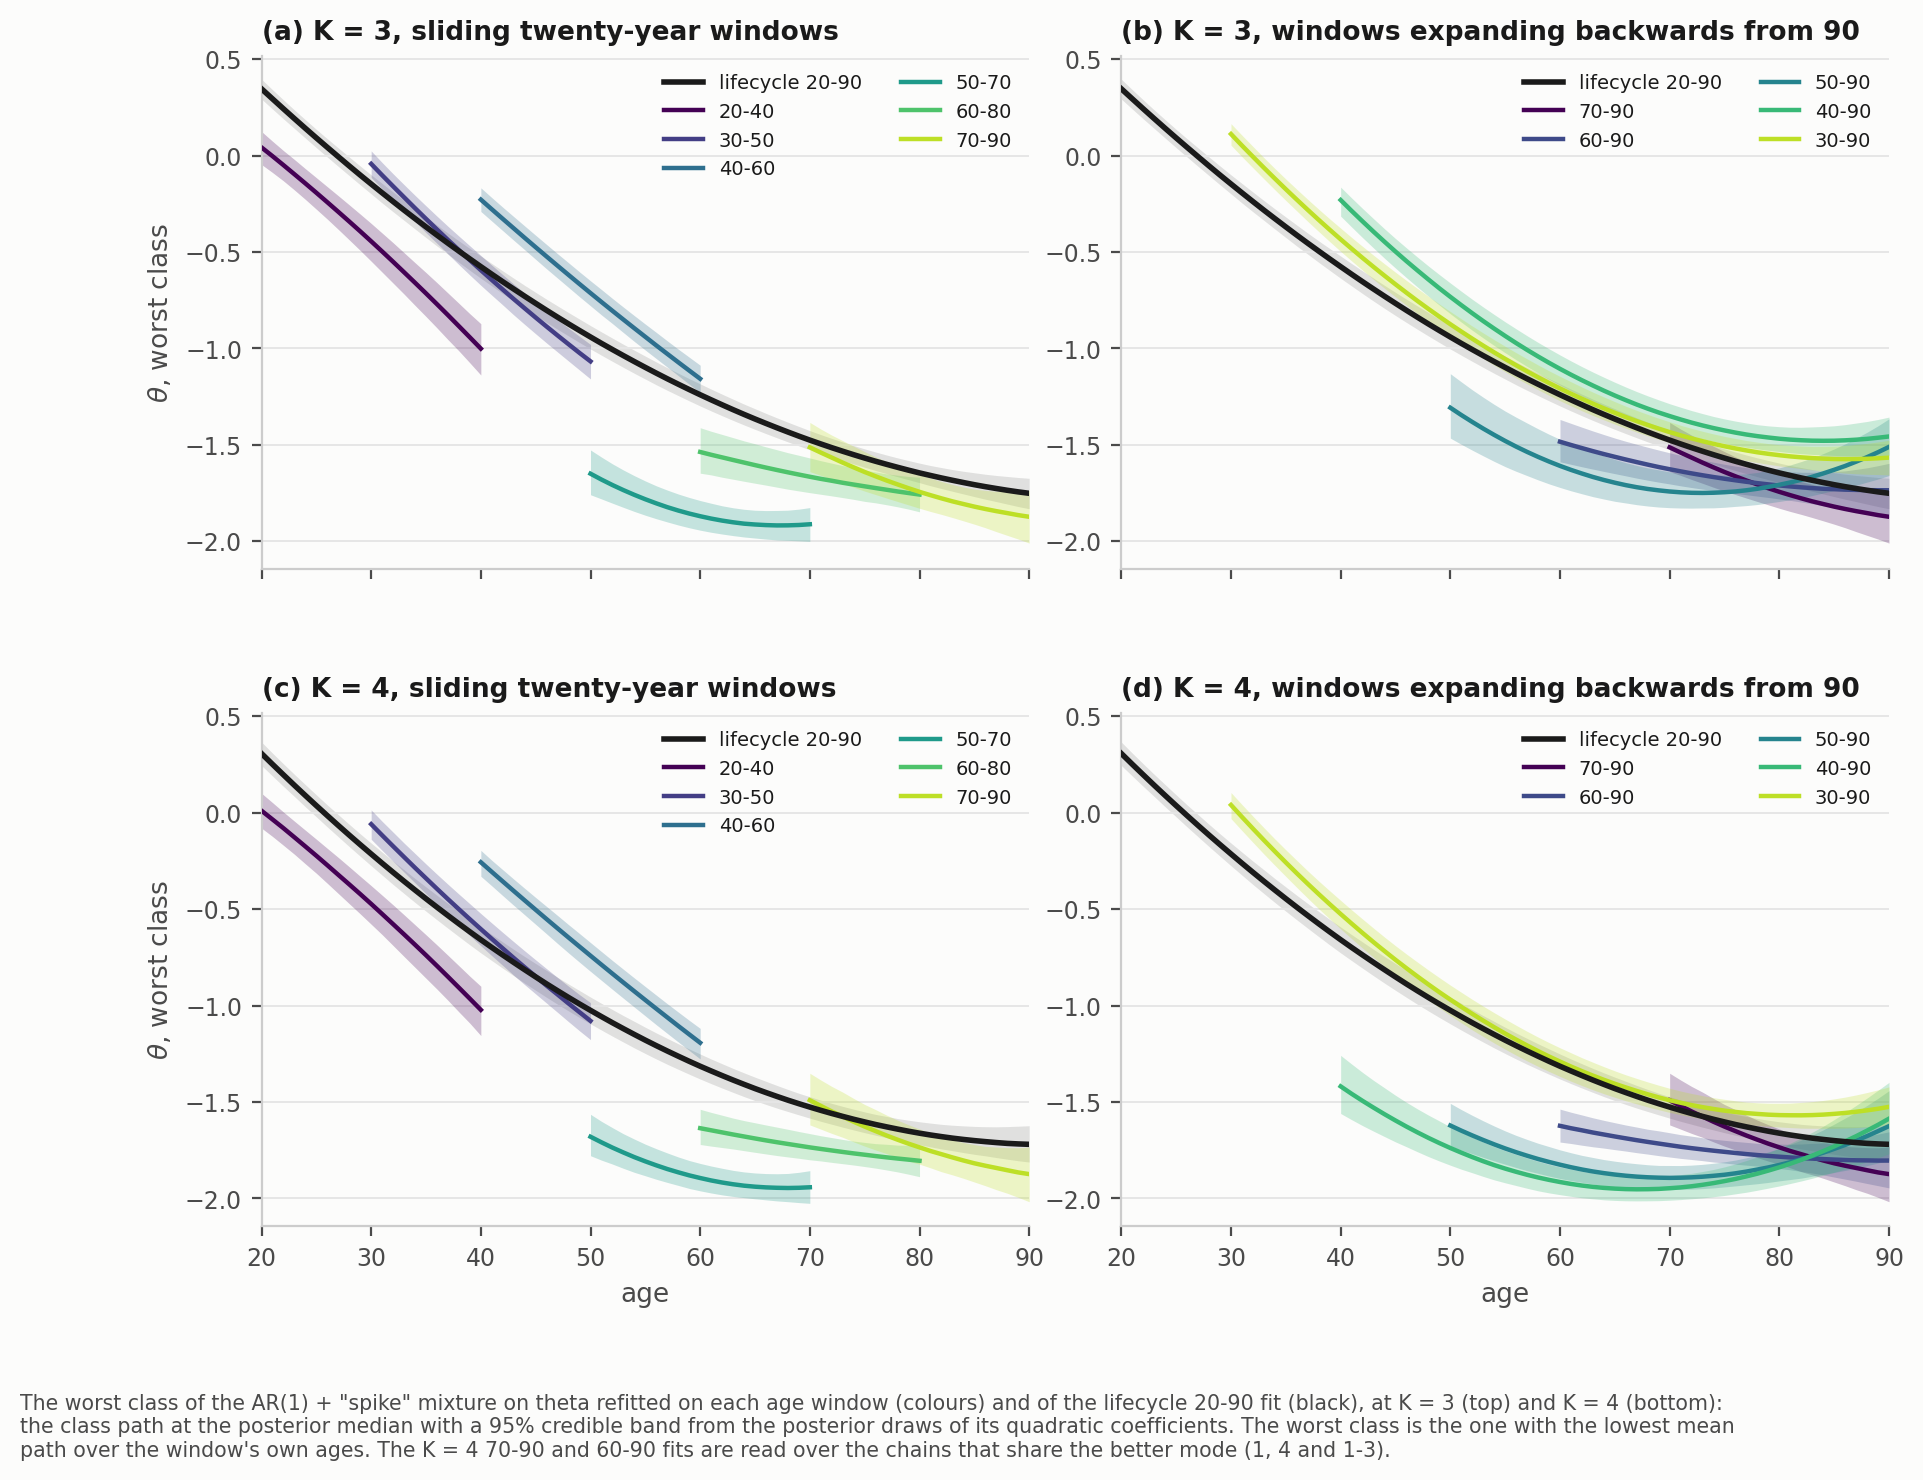
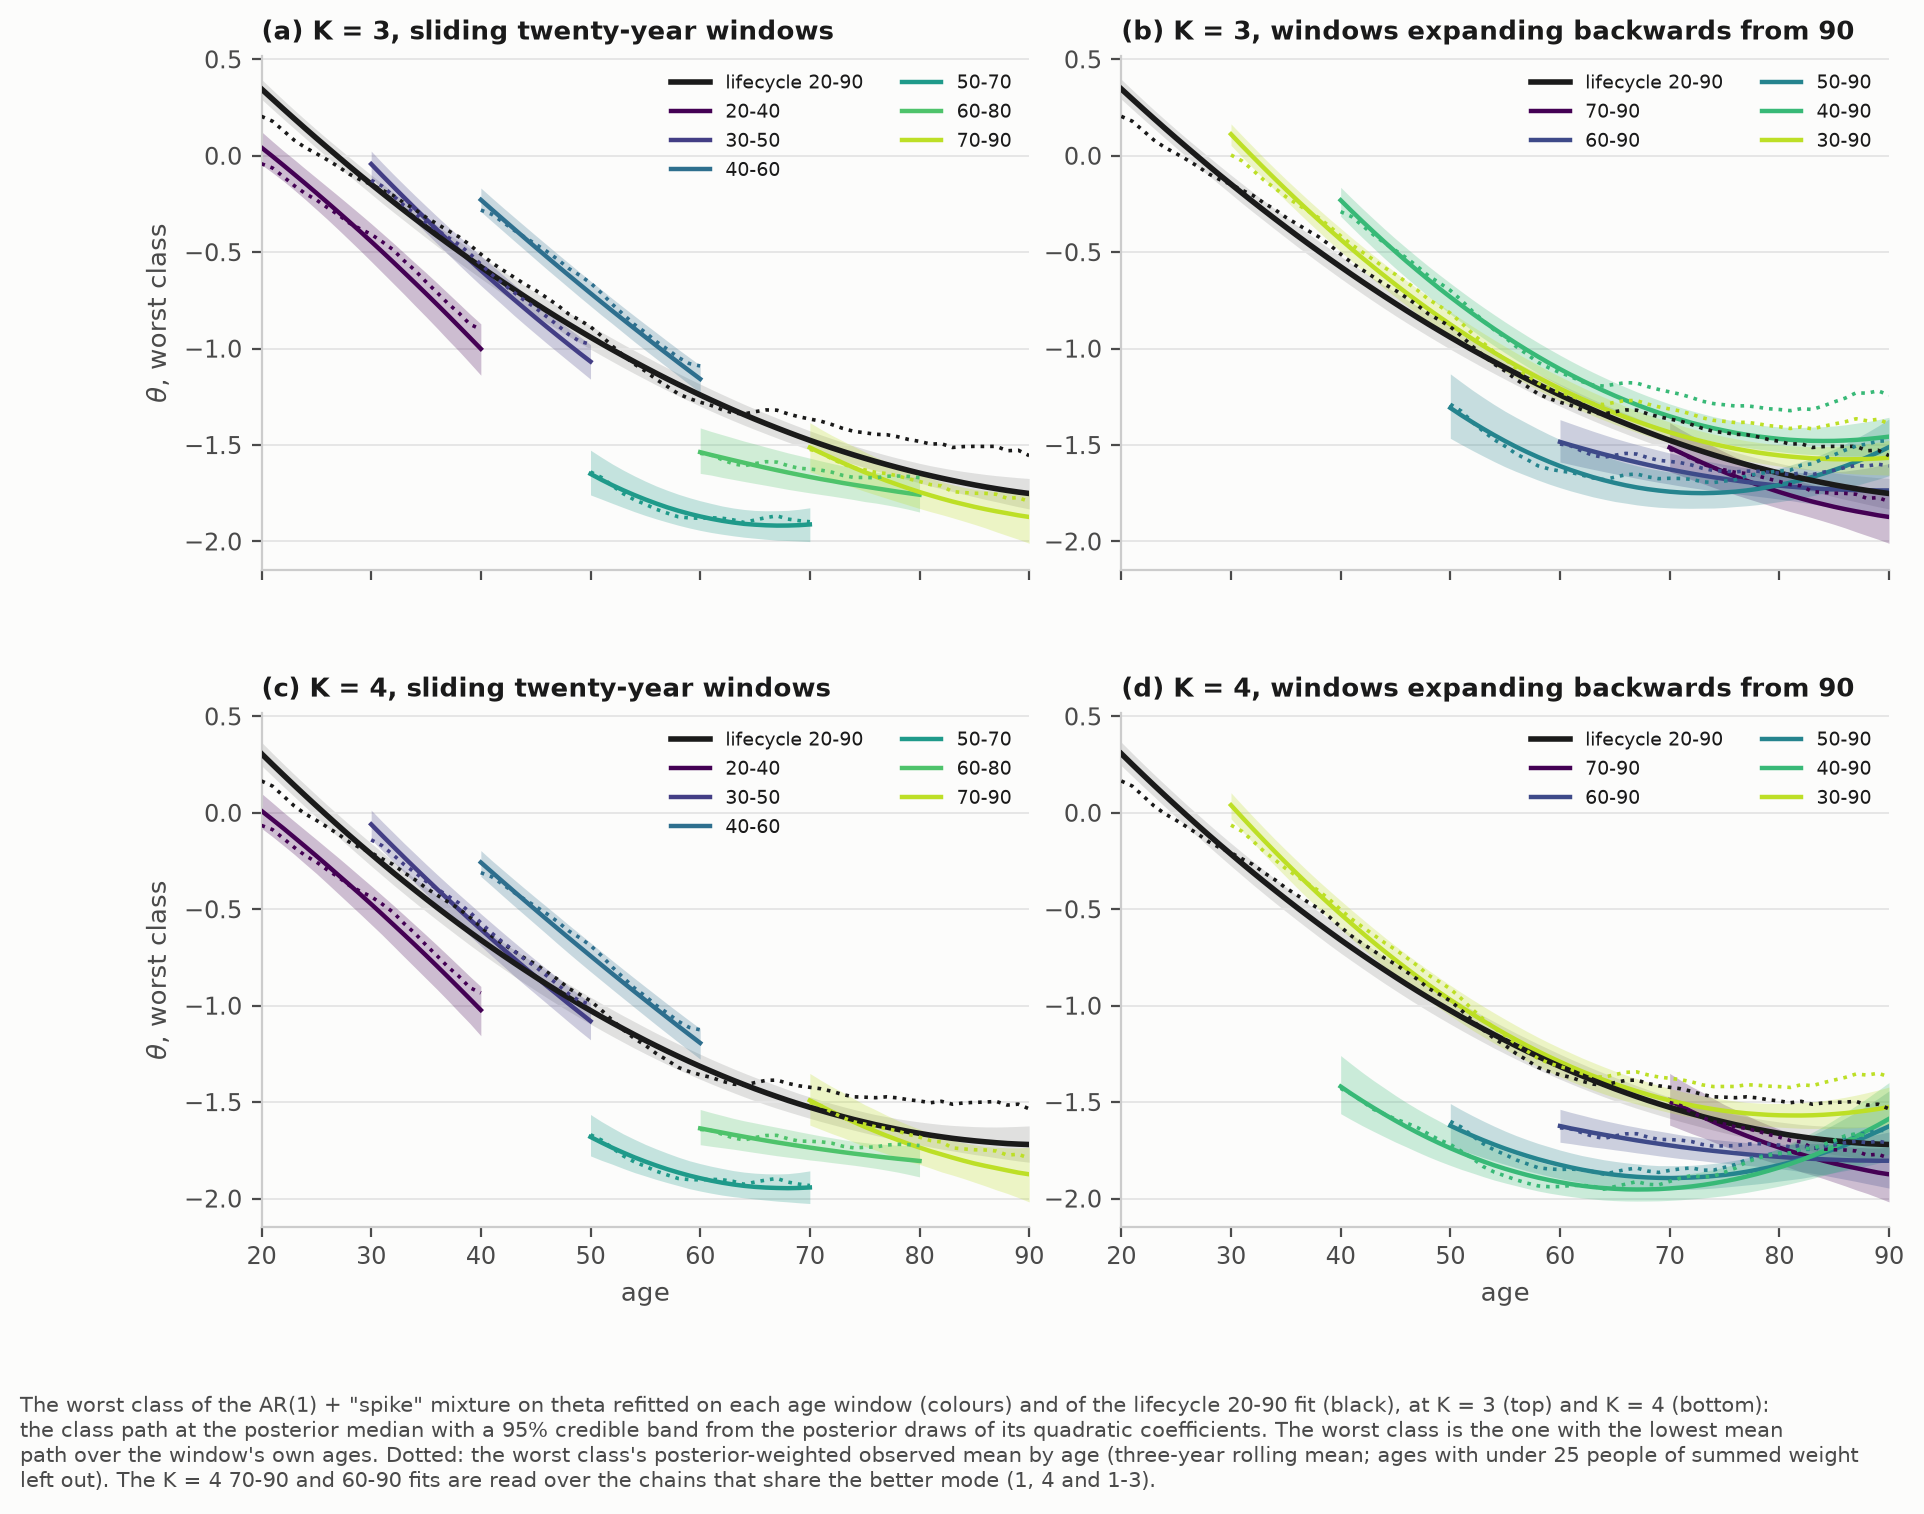
55: observed worst-class means by age, dotted
Each panel adds the worst class's posterior-weighted observed mean of theta by age
(three-year centred rolling mean), read from bayes_fit on the window's own contract; the
worst class at the posterior-mean coefficients is asserted to match the one from the draws.
The csv gains an observed column.

diff --git a/descriptives/55_paper_windows_worst_ci.py b/descriptives/55_paper_windows_worst_ci.py
@@ -8,7 +8,8 @@ backwards from 90. The worst class is the one with the lowest mean path over the
 ages at the posterior mean; the draws are read over the same chains as 50 (WINDOW_CHAINS).
 
 Output: paper/figures/fig_windows_worst_ci.png and artifacts/descriptives/paper_windows_worst_ci.csv
-(median and band by window, K and age).
+(median, band and the dotted observed mean by window, K and age). Dotted: the worst class's
+posterior-weighted observed mean of theta by age, smoothed with a centred three-year rolling mean.
 
     PYTHONPATH=src .venv/bin/python descriptives/55_paper_windows_worst_ci.py
 """
@@ -25,7 +26,7 @@ import numpy as np
 import pandas as pd
 
 sys.path.insert(0, str(Path(__file__).resolve().parent))
-from _paper_common import CONTRACT, DESC, FIG, MAX_AGE, MIN_AGE  # noqa: E402
+from _paper_common import CONTRACT, DESC, FIG, MAX_AGE, MIN_AGE, bayes_fit, observed_class_means  # noqa: E402
 from _style import INK, INK2, apply_style, share_ylim  # noqa: E402
 
 from prevention_health_clustering.config import ARTIFACTS_DIR, PROCESSED_DATA_DIR  # noqa: E402
@@ -43,10 +44,15 @@ def fit_dir(k: int, lo: int, hi: int) -> Path:
     return WIN / (f"{V}-ssm-{lo}-{hi}" if k == 3 else f"{V}-ssm-k{k}-{lo}-{hi}")
 
 
-def worst_paths(k: int, lo: int, hi: int) -> tuple[np.ndarray, np.ndarray]:
-    """Draws (n_draws x ages) of the worst class's path in theta's units over the window."""
+def contract_of(lo: int, hi: int) -> Path:
+    return CONTRACT if (lo, hi) == (MIN_AGE, MAX_AGE) else PROCESSED_DATA_DIR / "contracts" / f"health_window_{lo}_{hi}_v1"
+
+
+def worst_paths(k: int, lo: int, hi: int) -> tuple[np.ndarray, np.ndarray, np.ndarray]:
+    """Draws (n_draws x ages) of the worst class's path in theta's units over the window, and the
+    worst class's posterior-weighted observed mean by age (three-year centred rolling mean)."""
     d = fit_dir(k, lo, hi)
-    contract = CONTRACT if (lo, hi) == (MIN_AGE, MAX_AGE) else PROCESSED_DATA_DIR / "contracts" / f"health_window_{lo}_{hi}_v1"
+    contract = contract_of(lo, hi)
     mom = json.load(open(contract / "manifest.json"))["metric_moments"][V]
     chains = WINDOW_CHAINS.get(d.name)
     files = [f for f in sorted((d / "chains").glob("*_[0-9].csv")) if chains is None or int(f.stem.rsplit("_", 1)[1]) in chains]
@@ -55,7 +61,12 @@ def worst_paths(k: int, lo: int, hi: int) -> tuple[np.ndarray, np.ndarray]:
     ages = np.arange(lo, hi + 1); A = (ages - 55) / 10
     paths = mom["mean"] + mom["sd"] * (draws[:, :, :1] + draws[:, :, 1:2] * A + draws[:, :, 2:3] * A ** 2)   # draws x K x ages
     worst = int(np.argmin(paths.mean(axis=0).mean(axis=1)))
-    return ages, paths[:, worst, :]
+    r = bayes_fit(d, V, k, chains=chains, contract=None if (lo, hi) == (MIN_AGE, MAX_AGE) else contract)
+    pm = (r["coef"][:, :1] + r["coef"][:, 1:2] * A + r["coef"][:, 2:3] * A ** 2).mean(axis=1)
+    assert int(np.argmin(pm)) == worst, f"{d.name}: worst class {int(np.argmin(pm)) + 1} at the posterior mean, {worst + 1} from the draws"
+    obs = observed_class_means(r["post"], V, k, rows=r["obs_rows"])[f"class{worst + 1}"].reindex(ages)
+    obs = obs.rolling(3, center=True, min_periods=1).mean().to_numpy()
+    return ages, paths[:, worst, :], obs
 
 
 def main() -> int:
@@ -64,20 +75,22 @@ def main() -> int:
     cmap = plt.get_cmap("viridis")
     rows = []
     for i, k in enumerate((3, 4)):
-        la, lp = worst_paths(k, MIN_AGE, MAX_AGE)
+        la, lp, lo_obs = worst_paths(k, MIN_AGE, MAX_AGE)
         for j, (wins, name) in enumerate([(SLIDING, "sliding twenty-year windows"), (BACKWARD, "windows expanding backwards from 90")]):
             ax = axes[i, j]
             lq = np.quantile(lp, [0.025, 0.5, 0.975], axis=0)
             ax.fill_between(la, lq[0], lq[2], color=INK, alpha=0.12, lw=0, zorder=1)
             ax.plot(la, lq[1], color=INK, lw=2.0, zorder=4, label="lifecycle 20-90")
+            ax.plot(la, lo_obs, color=INK, lw=1.3, ls=":", zorder=5)
             for n, (lo, hi) in enumerate(wins):
-                ages, p = worst_paths(k, lo, hi)
+                ages, p, obs = worst_paths(k, lo, hi)
                 q = np.quantile(p, [0.025, 0.5, 0.975], axis=0)
                 c = cmap(0.9 * n / max(len(wins) - 1, 1))
                 ax.fill_between(ages, q[0], q[2], color=c, alpha=0.25, lw=0, zorder=2)
                 ax.plot(ages, q[1], color=c, lw=1.6, zorder=3, label=f"{lo}-{hi}")
-                rows += [{"K": k, "kind": "sliding" if j == 0 else "backward", "lo": lo, "hi": hi, "age": int(a), "median": m, "lo95": a0, "hi95": a1}
-                         for a, m, a0, a1 in zip(ages, q[1], q[0], q[2])]
+                ax.plot(ages, obs, color=c, lw=1.3, ls=":", zorder=5)
+                rows += [{"K": k, "kind": "sliding" if j == 0 else "backward", "lo": lo, "hi": hi, "age": int(a), "median": m, "lo95": a0, "hi95": a1, "observed": o}
+                         for a, m, a0, a1, o in zip(ages, q[1], q[0], q[2], obs)]
             ax.set_title(f"({'abcd'[2 * i + j]}) K = {k}, {name}", loc="left", fontsize=9.5)
             ax.grid(True, axis="y"); ax.set_xlim(MIN_AGE, MAX_AGE)
             if i == 1:
@@ -85,12 +98,13 @@ def main() -> int:
             if j == 0:
                 ax.set_ylabel("$\\theta$, worst class")
             ax.legend(fontsize=7, ncols=2, loc="upper right")
-        rows += [{"K": k, "kind": "lifecycle", "lo": MIN_AGE, "hi": MAX_AGE, "age": int(a), "median": m, "lo95": a0, "hi95": a1}
-                 for a, m, a0, a1 in zip(la, *np.quantile(lp, [0.5, 0.025, 0.975], axis=0))]
+        rows += [{"K": k, "kind": "lifecycle", "lo": MIN_AGE, "hi": MAX_AGE, "age": int(a), "median": m, "lo95": a0, "hi95": a1, "observed": o}
+                 for a, m, a0, a1, o in zip(la, *np.quantile(lp, [0.5, 0.025, 0.975], axis=0), lo_obs)]
     share_ylim(axes.ravel())
     footer = ("The worst class of the AR(1) + \"spike\" mixture on theta refitted on each age window (colours) and of the lifecycle 20-90 fit (black), "
               "at K = 3 (top) and K = 4 (bottom): the class path at the posterior median with a 95% credible band from the posterior draws of its quadratic coefficients. "
-              "The worst class is the one with the lowest mean path over the window's own ages. The K = 4 70-90 and 60-90 fits are read over the chains that share the better mode (1, 4 and 1-3).")
+              "The worst class is the one with the lowest mean path over the window's own ages. "
+              "Dotted: the worst class's posterior-weighted observed mean by age (three-year rolling mean; ages with under 25 people of summed weight left out). The K = 4 70-90 and 60-90 fits are read over the chains that share the better mode (1, 4 and 1-3).")
     fig.text(0.01, 0.0, "\n".join(textwrap.wrap(footer, 170)), fontsize=7.4, color=INK2, va="top")
     fig.savefig(FIG / "fig_windows_worst_ci.png", bbox_inches="tight")
     pd.DataFrame(rows).to_csv(DESC / "paper_windows_worst_ci.csv", index=False)
